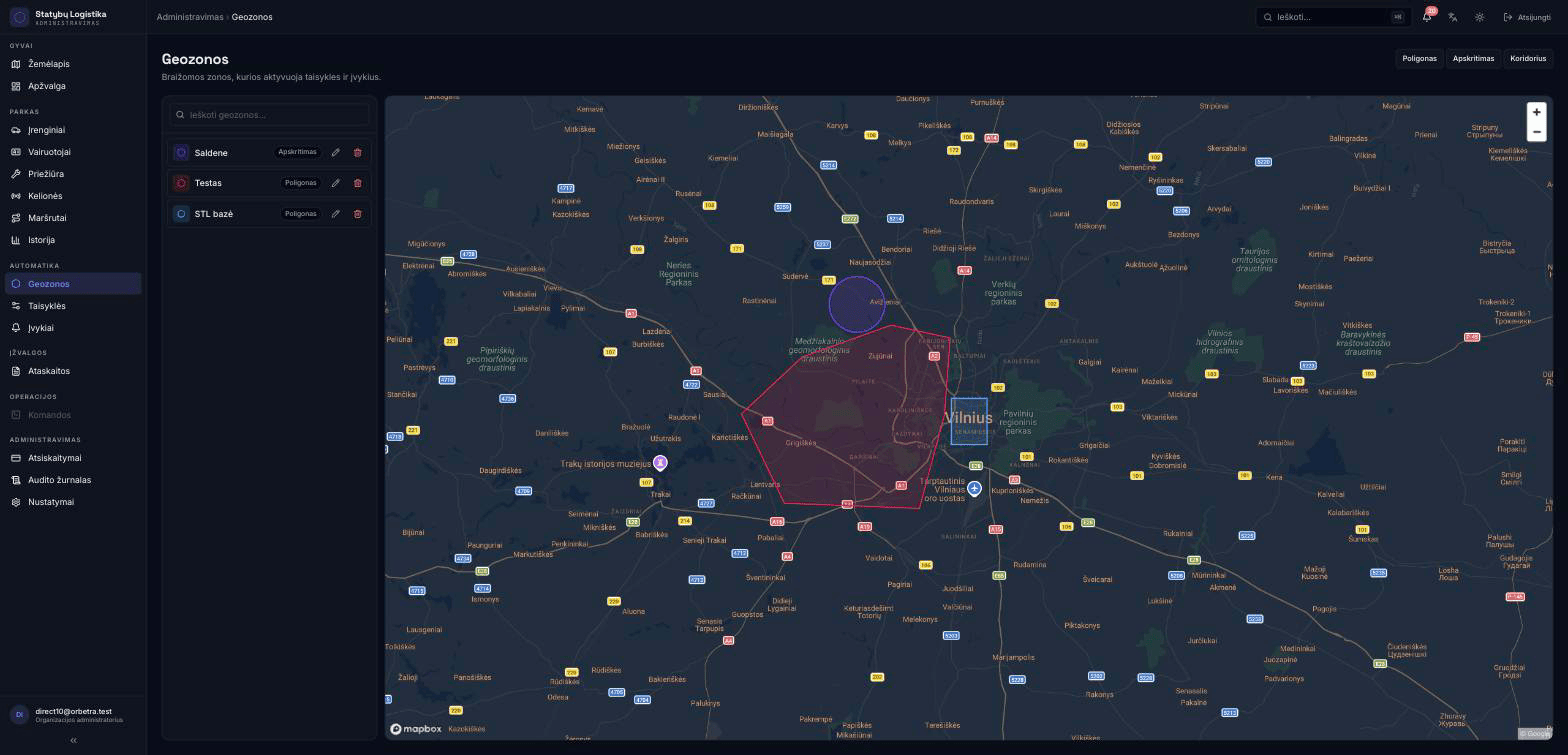
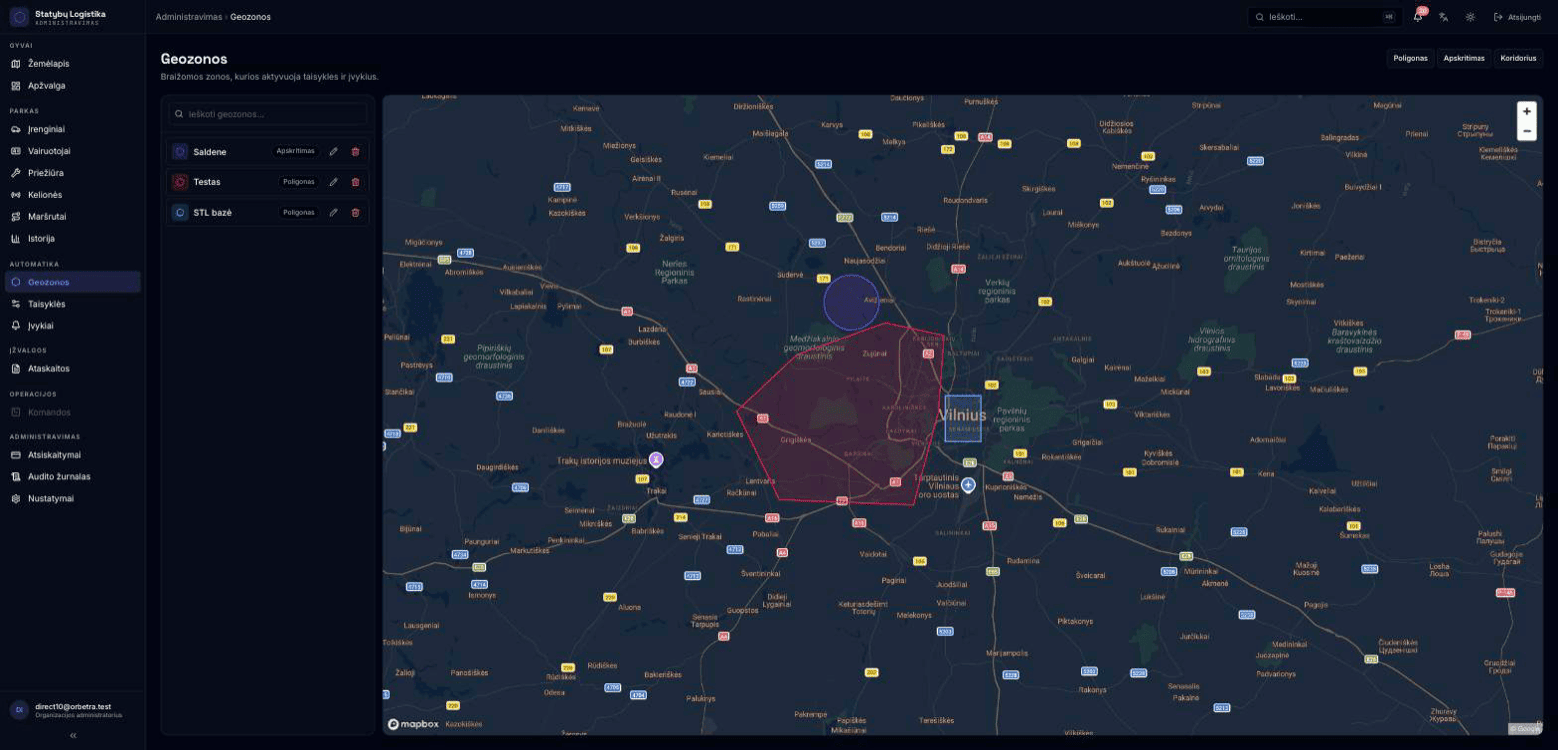
fix(site): hero frame matches the capture aspect — slides show the FULL page
The 1.6 frame was cropping ~20% off the right of every 2:1 capture, so the
events table lost its severity columns and the overview lost its right-hand
cards (founder: 'ne tokios kaip realiai'). The frame now uses the captures'
native aspect and the geofences slide is downscaled to the same 1558px as
the rest — uniform light layers also keep the crossfade smooth on GPUs that
froze on the old 2880px slide.

diff --git a/apps/site/src/components/site/HeroDeck.tsx b/apps/site/src/components/site/HeroDeck.tsx
@@ -266,7 +266,7 @@ function HeroConsoleDeck() {
           </div>
 
           {/* Screenshot */}
-          <div className="relative aspect-[1440/900] w-full overflow-hidden bg-[#0b0f1c]">
+          <div className="relative aspect-[1558/784] w-full overflow-hidden bg-[#0b0f1c]">
             <AnimatePresence mode="wait">
               <motion.img
                 key={current.key}
